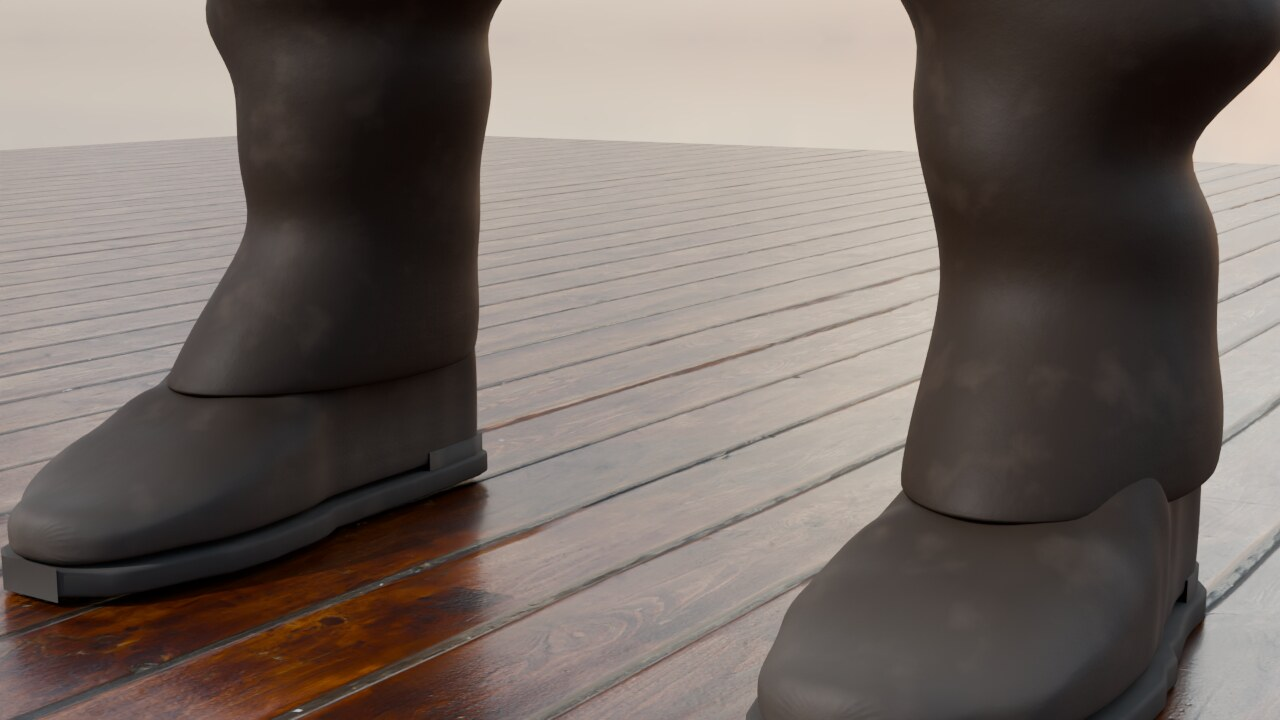
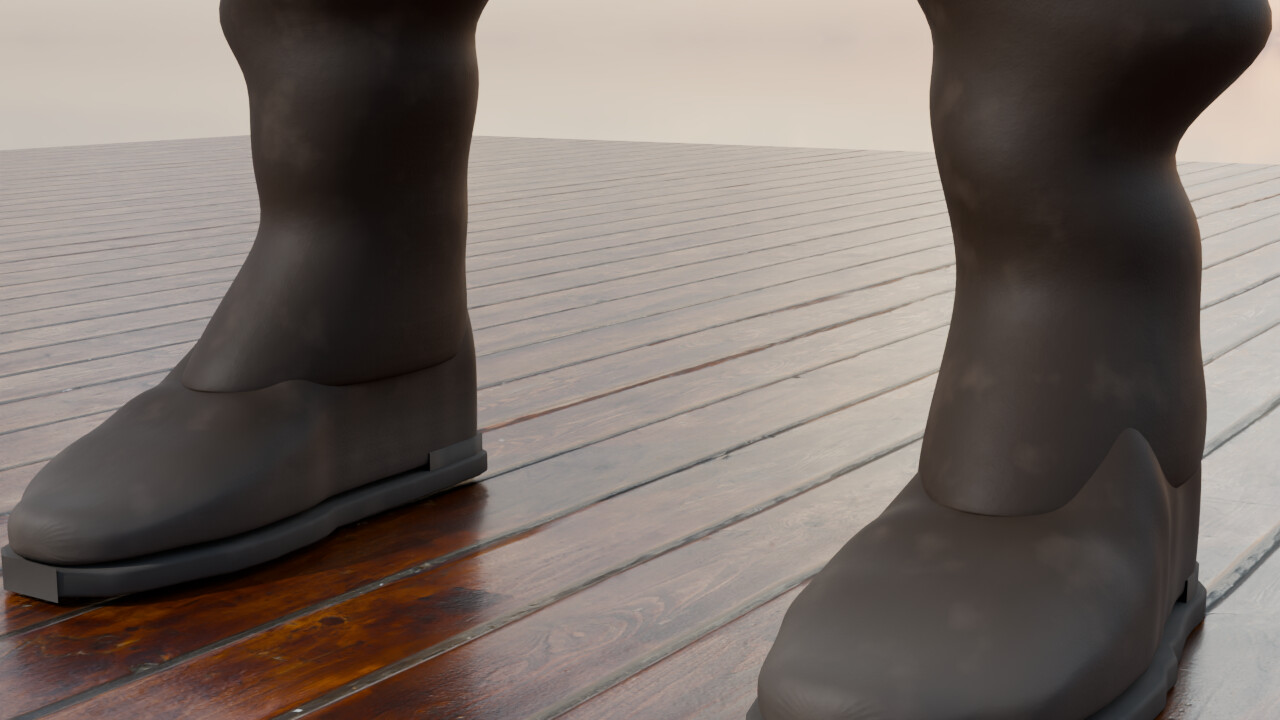
Deveau face/boots: skin regions + SSS, wet corneas, groomed clumped beard and hair, slimmer boot shaft; credits
Claude-Session: https://claude.ai/code/session_01XfwPSmv2SCMB94Z9Uy8ebm

diff --git a/mary_celeste_3d/lib/deveau.py b/mary_celeste_3d/lib/deveau.py
@@ -161,7 +161,23 @@ def sailor_skin(name, base=(0.43, 0.25, 0.16), weather=0.6):
     nf = N.new("ShaderNodeMath"); nf.operation = 'MULTIPLY'; nf.inputs[1].default_value = 0.6
     L.new(mask("mpfb_fingernails.jpg"), nf.inputs[0]); L.new(nf.outputs[0], nails.inputs['Factor'])
     L.new(lips.outputs[2], nails.inputs[6])
-    L.new(nails.outputs[2], p.inputs['Base Color'])
+    # regions: wind-burn, socket shadow, oily T-zone (vertex colour 'skinvar', see Deveau._skin_regions)
+    at = N.new("ShaderNodeAttribute"); at.attribute_name = "skinvar"
+    spc = N.new("ShaderNodeSeparateColor"); L.new(at.outputs['Color'], spc.inputs[0])
+    rr = N.new("ShaderNodeMix"); rr.data_type = 'RGBA'; rr.blend_type = 'MULTIPLY'; rr.inputs[7].default_value = (1.0, 0.58, 0.5, 1)
+    rf = N.new("ShaderNodeMath"); rf.operation = 'MULTIPLY'; rf.inputs[1].default_value = 0.55; L.new(spc.outputs[0], rf.inputs[0])
+    L.new(rf.outputs[0], rr.inputs['Factor']); L.new(nails.outputs[2], rr.inputs[6])
+    sk = N.new("ShaderNodeMix"); sk.data_type = 'RGBA'; sk.blend_type = 'MULTIPLY'; sk.inputs[7].default_value = (0.62, 0.5, 0.48, 1)
+    sf = N.new("ShaderNodeMath"); sf.operation = 'MULTIPLY'; sf.inputs[1].default_value = 0.6; L.new(spc.outputs[1], sf.inputs[0])
+    L.new(sf.outputs[0], sk.inputs['Factor']); L.new(rr.outputs[2], sk.inputs[6])
+    L.new(sk.outputs[2], p.inputs['Base Color'])
+    rs = p.inputs['Roughness'].links[0].from_socket
+    ro = N.new("ShaderNodeMath"); ro.operation = 'MULTIPLY_ADD'; ro.inputs[1].default_value = -0.16
+    L.new(spc.outputs[2], ro.inputs[0]); L.new(rs, ro.inputs[2]); L.new(ro.outputs[0], p.inputs['Roughness'])
+    p.inputs['Subsurface Weight'].default_value = 0.55
+    p.inputs['Subsurface Radius'].default_value = (1.0, 0.38, 0.18)
+    p.inputs['Subsurface Scale'].default_value = 0.009
+    p.inputs['Coat Weight'].default_value = 0.08; p.inputs['Coat Roughness'].default_value = 0.35
     return m
 
 
@@ -220,6 +236,7 @@ class Deveau:
                          extra=extra, eyebrows=None, eyelashes=None, skin=None)
         h = self.h
         h.body.data.materials[0] = sailor_skin(name + "_skin")
+        self._skin_regions()
         self.name = name; self.wet = wet
         self.rest_co = H.to_bl(h.hc)
         me = h.body.data
@@ -233,6 +250,21 @@ class Deveau:
             self.used[list(pl.vertices)] = True
         self.faces = [tuple(pl.vertices) for pl in me.polygons]
         self._dress()
+
+    def _skin_regions(self):
+        """Vertex colour 'skinvar': R = wind-burn redness (nose, cheeks, ears), G = shadowed eye sockets,
+        B = oily T-zone (forehead, nose) for a lower roughness. Drives sailor_skin."""
+        h = self.h; co = H.to_bl(h.hc)
+        ec = (np.array(h.joint("eye.L____head")) + np.array(h.joint("eye.R____head"))) / 2
+        r = co - ec; x, y, z = r[:, 0], r[:, 1], r[:, 2]
+        g = lambda cx, cy, cz, sx, sy, sz: np.exp(-(((x - cx) / sx) ** 2 + ((y - cy) / sy) ** 2 + ((z - cz) / sz) ** 2))
+        red = np.clip(0.9 * g(0, -0.06, -0.035, 0.018, 0.03, 0.025) + 0.7 * g(0.045, -0.035, -0.03, 0.025, 0.03, 0.025)
+                      + 0.7 * g(-0.045, -0.035, -0.03, 0.025, 0.03, 0.025) + 0.35 * g(0.075, 0.01, -0.01, 0.015, 0.03, 0.03)
+                      + 0.35 * g(-0.075, 0.01, -0.01, 0.015, 0.03, 0.03), 0, 1)
+        sock = np.clip(0.8 * g(0.032, -0.01, -0.004, 0.022, 0.03, 0.016) + 0.8 * g(-0.032, -0.01, -0.004, 0.022, 0.03, 0.016), 0, 1)
+        oily = np.clip(g(0, -0.05, 0.05, 0.03, 0.05, 0.03) + g(0, -0.06, -0.03, 0.012, 0.04, 0.03), 0, 1)
+        ca = h.body.data.color_attributes.new("skinvar", 'FLOAT_COLOR', 'POINT')
+        ca.data.foreach_set("color", np.stack([red, sock, oily, np.ones_like(red)], 1).astype(np.float32).ravel())
 
     # ------------------------------------------------------------------ clothes
     def _shell(self, label, vmask, offset, mat, solid=0.003, smooth=0.0, displace=0.0, keep_faces=None, drape=0, flare=None):
@@ -324,7 +356,7 @@ class Deveau:
                                     solid=0.003, displace=0.003)
         # ---- trousers (wool): pelvis and legs down to the boot tops
         trous = u & (z < hip_z + 0.11) & (z > ankle_z + 0.2) & (wfoot < 0.2) & (whand < 0.05)
-        self.trousers, _ = self._shell("trousers", trous, 0.012, wool_material("trousers", (0.022, 0.02, 0.019), weave=500, wet=self.wet, sheen=0.25),
+        self.trousers, _ = self._shell("trousers", trous, 0.009, wool_material("trousers", (0.022, 0.02, 0.019), weave=500, wet=self.wet, sheen=0.25),
                                        solid=0.002, displace=0.004, drape=14,
                                        flare=lambda b: np.clip((knee_z + 0.1 - b[:, 2]) / 0.4, 0, 1) * 0.006)
         # ---- boots (leather): feet and shins, smoothed so the toes read as a boot
@@ -441,6 +473,7 @@ class Deveau:
             for e in h.eyes:
                 d = (Vector(look_at) - e.location).normalized()
                 e.rotation_mode = 'QUATERNION'; e.rotation_quaternion = (-d).to_track_quat('Y', 'Z')
+        self._corneas()
         self._sea_boots()
         if hair:
             self._grow_all(density)
@@ -450,6 +483,31 @@ class Deveau:
                 if o.parent is None:
                     o.matrix_world = place @ o.matrix_world
             bpy.context.view_layer.update()
+
+    def _corneas(self):
+        """A clear, wet cornea over each eyeball: the bulge catches sharp highlights (no more 'dead' eyes)."""
+        cm = bpy.data.materials.new(self.name + "_cornea"); cm.use_nodes = True
+        N = cm.node_tree.nodes; L = cm.node_tree.links; p = N["Principled BSDF"]
+        # clear film: see-through (no refraction), with a fresnel mirror layer for the wet highlight
+        gl = N.new("ShaderNodeBsdfGlossy"); gl.inputs['Roughness'].default_value = 0.02
+        tr = N.new("ShaderNodeBsdfTransparent"); fr = N.new("ShaderNodeFresnel"); fr.inputs['IOR'].default_value = 1.376
+        mx = N.new("ShaderNodeMixShader"); L.new(fr.outputs[0], mx.inputs[0]); L.new(tr.outputs[0], mx.inputs[1]); L.new(gl.outputs[0], mx.inputs[2])
+        lp = N.new("ShaderNodeLightPath"); mx2 = N.new("ShaderNodeMixShader")
+        L.new(lp.outputs['Is Shadow Ray'], mx2.inputs[0]); L.new(mx.outputs[0], mx2.inputs[1]); L.new(tr.outputs[0], mx2.inputs[2])
+        L.new(mx2.outputs[0], N["Material Output"].inputs['Surface'])
+        self.corneas = []
+        for e in self.h.eyes:
+            r = e.dimensions.x / 2
+            bpy.ops.mesh.primitive_uv_sphere_add(segments=48, ring_count=32, radius=r * 1.012, location=e.matrix_world.translation)
+            c = bpy.context.active_object; c.name = self.name + "_cornea"
+            for v in c.data.vertices:                         # bulge forward (local -Y is where the iris looks)
+                if v.co.y < 0:
+                    k = max(0.0, -v.co.y / (r * 1.012)) ** 3
+                    v.co.y -= r * 0.06 * k
+            bpy.ops.object.shade_smooth()
+            c.data.materials.append(cm)
+            c.rotation_mode = 'QUATERNION'; c.rotation_quaternion = e.matrix_world.to_quaternion()
+            self.corneas.append(c); self.h.parts.append(c)
 
     def _sea_boots(self):
         """1870s leather sea boots, modelled per posed foot (replaces the body-shaped boot shell):
@@ -522,8 +580,8 @@ class Deveau:
                 if len(q) < 6:
                     q = Lp[np.argsort(np.abs(Lp[:, 2] - z))[:40]]
                 c = q[:, :2].mean(0); d = q[:, :2] - c
-                ra = float(np.abs(d @ fwd).max()) + 0.02; rb = float(np.abs(d @ S3[:2]).max()) + 0.02
-                flare = 1.0 + 0.12 * max(0.0, (j - 8) / 3)
+                ra = float(np.abs(d @ fwd).max()) + 0.013; rb = float(np.abs(d @ S3[:2]).max()) + 0.013
+                flare = 1.0 + 0.05 * max(0.0, (j - 9) / 2)
                 ring = []
                 for k in range(nr):
                     a = 2 * math.pi * k / nr
@@ -607,10 +665,10 @@ class Deveau:
         brown = hair_material(self.name + "_hair", 0.82, 0.38)
         self.hair_objs = []
         self.hair_objs.append(self._strands("hair", scalp, P, bvh, int(70000 * density), (0.014, 0.028), 0.001,
-                                            comb=lambda p: R @ Vector((0, 0.8, -0.45)), lift=0.0022, mat=brown, curl=0.22))
+                                            comb=lambda p: R @ Vector((0, 0.8, -0.45)), lift=0.0022, mat=brown, curl=0.22, clump=0.35))
         beard_m = hair_material(self.name + "_beard", 0.8, 0.45, rough=0.38)
         self.hair_objs.append(self._strands("beard", beard | neck, P, bvh, int(46000 * density), (0.014, 0.03), 0.0009,
-                                            comb=lambda p: R @ Vector((0, -0.25, -1)), lift=0.003, mat=beard_m, curl=0.45))
+                                            comb=lambda p: R @ Vector((0, -0.25, -1)), lift=0.003, mat=beard_m, curl=0.35, clump=0.55, segs=9))
         self.hair_objs.append(self._strands("moustache", tache, P, bvh, int(5000 * density), (0.012, 0.02), 0.0008,
                                             comb=lambda p: R @ Vector((math.copysign(0.7, p.x - self._mid_x), -0.2, -1)),
                                             lift=0.002, mat=beard_m, curl=0.2))
@@ -618,7 +676,7 @@ class Deveau:
                                             comb=lambda p: R @ Vector((math.copysign(1.0, p.x - self._mid_x), 0, 0.25)),
                                             lift=0.0008, mat=beard_m, curl=0.08))
 
-    def _strands(self, label, vmask, P, bvh, count, length, radius, comb, lift, mat, curl=0.2, segs=7, seed=1):
+    def _strands(self, label, vmask, P, bvh, count, length, radius, comb, lift, mat, curl=0.2, segs=7, seed=1, clump=0.0):
         rng = np.random.default_rng(seed + len(label))
         self._mid_x = float(P[self.used, 0].mean())
         fs = [f for f in self.faces if vmask[list(f)].sum() >= 3]
@@ -664,6 +722,18 @@ class Deveau:
         span = np.linalg.norm(pts[:, -1] - pts[:, 0], axis=1)
         ok &= span < lens * 1.2
         pts = pts[ok]; count = int(ok.sum())
+        if clump and count > 50:
+            # groomed look: strands gather toward the tips of nearby guide strands
+            from mathutils.kdtree import KDTree
+            ng = max(20, count // 60); gi = rng.choice(count, ng, replace=False)
+            kd = KDTree(ng)
+            for j, g in enumerate(gi):
+                kd.insert(Vector(pts[g, 0]), j)
+            kd.balance()
+            t = np.linspace(0, 1, segs)[None, :, None] ** 1.4
+            G = np.array([gi[kd.find(Vector(pts[i, 0]))[1]] for i in range(count)])
+            tgt = pts[G] - pts[G][:, :1] + pts[:, :1]
+            pts = pts + (tgt - pts) * clump * t
         cv = bpy.data.hair_curves.new(f"{self.name}_{label}")
         cv.add_curves([segs] * count)
         cv.position_data.foreach_set("vector", pts.reshape(-1))

diff --git a/mary_celeste_3d/lib/human.py b/mary_celeste_3d/lib/human.py
@@ -411,7 +411,7 @@ class Human:
         stops = [(0.0, (0.004, 0.003, 0.003)), (0.11, (0.004, 0.003, 0.003)),      # pupil
                  (0.14, tuple(c * 0.5 for c in iris_col)), (0.30, iris_col),       # iris
                  (0.36, (0.03, 0.022, 0.018)),                                     # limbal ring
-                 (0.42, (0.62, 0.55, 0.50)), (1.0, (0.55, 0.45, 0.42))]            # sclera
+                 (0.42, (0.56, 0.49, 0.45)), (1.0, (0.5, 0.36, 0.34))]            # sclera
         cr.elements[0].position, cr.elements[0].color = stops[0][0], (*stops[0][1], 1)
         cr.elements[1].position, cr.elements[1].color = stops[-1][0], (*stops[-1][1], 1)
         for pos, col in stops[1:-1]:

diff --git a/mary_celeste_3d/README.md b/mary_celeste_3d/README.md
@@ -38,3 +38,10 @@ ocean, foam, spray, Poly Haven sky).
   `d.finish(look_at=world_pt, place=Matrix, density=1.0)`. `finish` bakes the pose, adds convex sea boots, grows hair,
   aims the eyes, then places him.
 * Colour: grade `cine={"sat": 1.2, ...}` in exteriors; `tools/house_finish.py` never drains colour (hub/user: rich Atrium colour).
+
+## Credits
+
+* MakeHuman 1.x base mesh, rig, targets and eyes: CC0 (MakeHuman team / Data Collection AB). MPFB UV masks: CC0.
+* Poly Haven (CC0): kloppenheim_06_puresky, mud_road_puresky (tests), wood_floor_deck, weathered_planks, dark_wooden_planks,
+  brown_planks_05, wood_table_worn, rough_linen; models wooden_lantern_01, wooden_handle_saber, wooden_bucket_01.
+* No Sketchfab asset is used (search on 18 Nov 2026 found no suitable CC-BY rigged 1870s sailor; downloads need a token).
